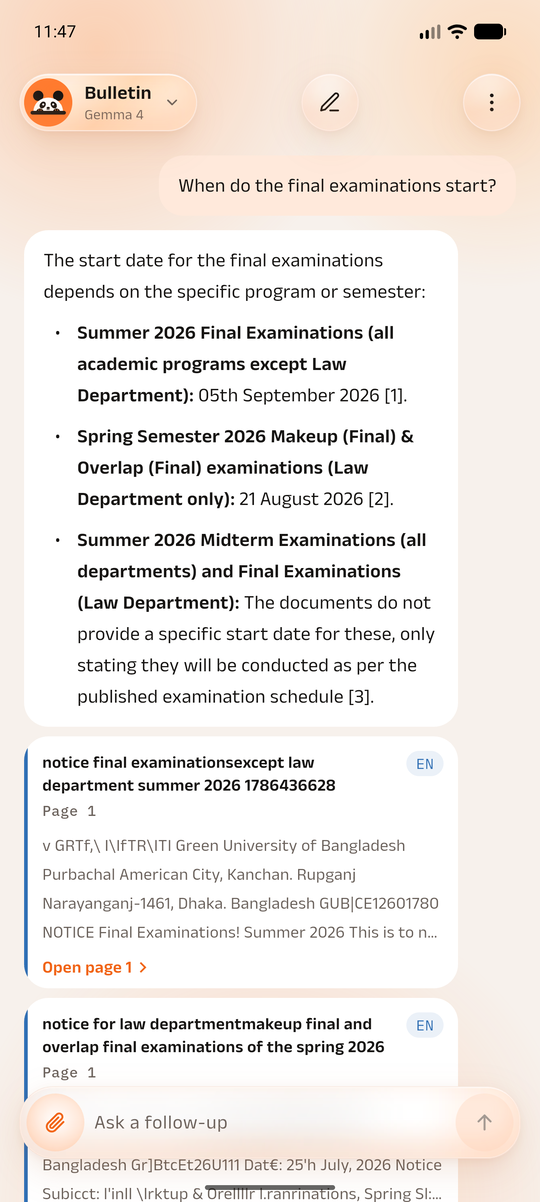
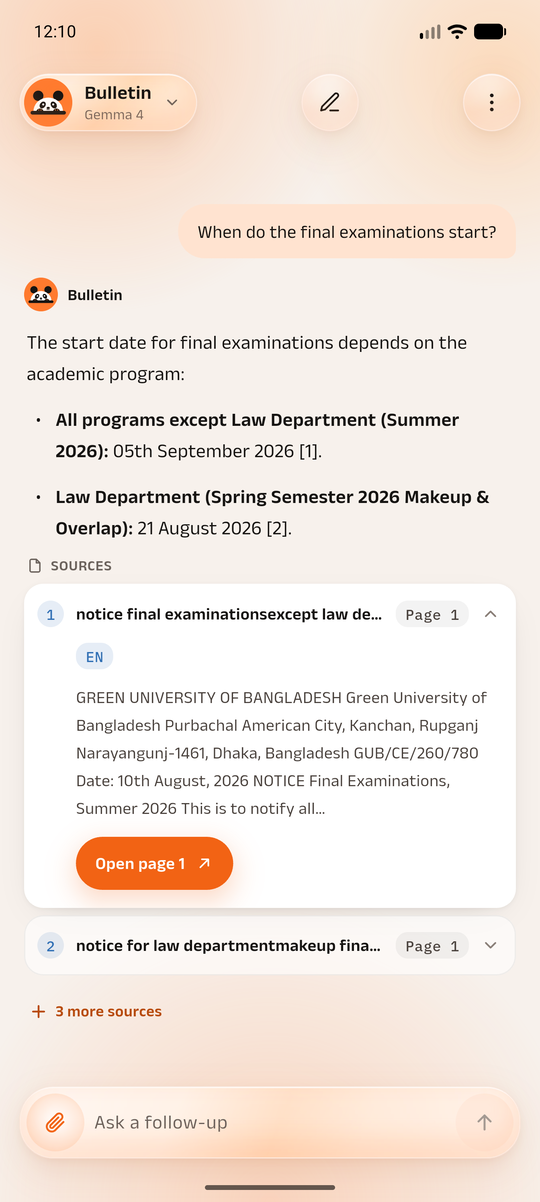
README: the redesigned thread, and an honest account of the OCR floor
New chat screenshot, test counts, and the app section's chat paragraph. The
source-preview noise is now explained at its cause: the default OCR floor keeps
the text layer of a scanned prose notice whose letterhead is noisy.

Changed region(s): [[0.0296, 0.1539, 0.9185, 1.0], [0.0889, 0.0, 0.1481, 0.0308]]

diff --git a/README.md b/README.md
@@ -77,6 +77,13 @@ throws across a layer.
   GPT-6.1 Terra (about ten times the cost, and labelled so), and DeepSeek V4.1 Flash. The server
   validates the key and refuses an unknown one with a 422 before spending a token. The menu
   adds no blur, because the budget is two `BackdropFilter`s per screen.
+- **Chat thread.** The user's question is a peach bubble; the answer has no bubble, under a panda
+  and the name. Before the first word a card shows what it is doing ("Searching documents…", and
+  "Read 4 courses from your routine" when a routine photo came first); then the text streams in with
+  a blinking caret. The sources arrive last, collapsed to one line each (number, title, page); a tap
+  opens one in place to the snippet in its own language and an "Open page" button, and "+ N more"
+  reveals the rest. A refusal is its own card with a "found nothing" icon, never styled as an answer.
+  Offline, the question stays in the thread marked "Not sent" with Retry, and a banner says why.
 - **Settings.** Pushed with a custom route (the screen below slides to -30% under a scrim,
   with an edge-swipe back that commits past 35% or 800 px/s). Interface language, display name
   saved through `PATCH /me`, institution and role, and sign out. The language and the model
@@ -95,11 +102,11 @@ gaps are named rather than hidden.
 | | |
 |---|---|
 | Backend pipeline, API, streaming | complete — 391 tests |
-| Flutter client | splash, auth, join, home, model picker, chat with citations, attachments, settings — 126 tests. Chat-thread redesign, source viewer and the admin screens pending |
+| Flutter client | splash, auth, join, home, model picker, the chat thread (working steps, streamed answer, collapsed sources, not-found, offline), attachments, settings — 138 tests. Source viewer and the admin screens pending |
 | Cross-lingual verification (Strategy A premise) | **measured — passes** |
 | Strategy B implementation | complete, 22 tests |
 | **Ablation A — the headline result** | **not run.** Blocked on a real bilingual corpus |
-| Corpus | live database: 15 public notices from one university (71 chunks). The measurements below were taken on an earlier set of 9 documents and 52 chunks. Both are too small, and collection is the active blocker |
+| Corpus | live database: 15 public notices from one university (69 chunks). The measurements below were taken on an earlier set of 9 documents and 52 chunks. Both are too small, and collection is the active blocker |
 
 The honest summary: the machinery is built and tested, and the one measurement that
 would make or break the whole approach has been taken and passed. The comparative
@@ -316,7 +323,7 @@ make ingest                   # full pipeline
 make eval                     # ablation tables → eval/reports/
 make test                     # 391 tests
 
-cd app && flutter run         # 126 tests via flutter test
+cd app && flutter run         # 138 tests via flutter test
 ```
 
 On Windows without `make`, `.\make.cmd <target>` takes the same names. The Flutter app reads
@@ -352,7 +359,7 @@ app/lib/                    Flutter
 docs/                       screenshots and the launch recording
 ```
 
-~9,000 lines of backend Python, ~12,900 lines of Dart, ~7,600 lines of tests.
+~9,000 lines of backend Python, ~13,800 lines of Dart, ~7,900 lines of tests.
 
 ---
 
@@ -361,9 +368,13 @@ docs/                       screenshots and the launch recording
 - **Ablation A**, the thesis result — blocked on a bilingual corpus
 - **Ablation B**, extraction paths on Bangla slices — same blocker
 - A corpus large enough for Recall@5 to mean something
-- Flutter: the chat thread still has the earlier design (the rest of the app is redesigned),
-  and the source viewer, admin document list and publish flow are pending
-- The source card previews raw extracted text. For a few scanned notices that text layer is
-  noisy, and the answer is right while the preview is not; the viewer will show the page itself
+- Flutter: the source viewer (the "Open page" button on a source) and the admin document list and
+  publish flow are pending
+- Exam rows inside an answer (a tile per course with its code and date) need the answer to carry
+  structured rows; today an answer is Markdown, so codes render as mono tiles inline
+- The default OCR quality floor (0.90) keeps the text layer of a scanned prose notice whose letterhead
+  is noisy, and that noise reached the source preview. For the demo corpus every notice was re-read
+  by vision (`BULLETIN_OCR_QUALITY_FLOOR=1.01`). Whether to raise the default is open, because it
+  changes what the eval measured
 - Deployment: no Dockerfile yet; cold-start and first-token latency unmeasured
 - Profiling on a real mid-range Android device
